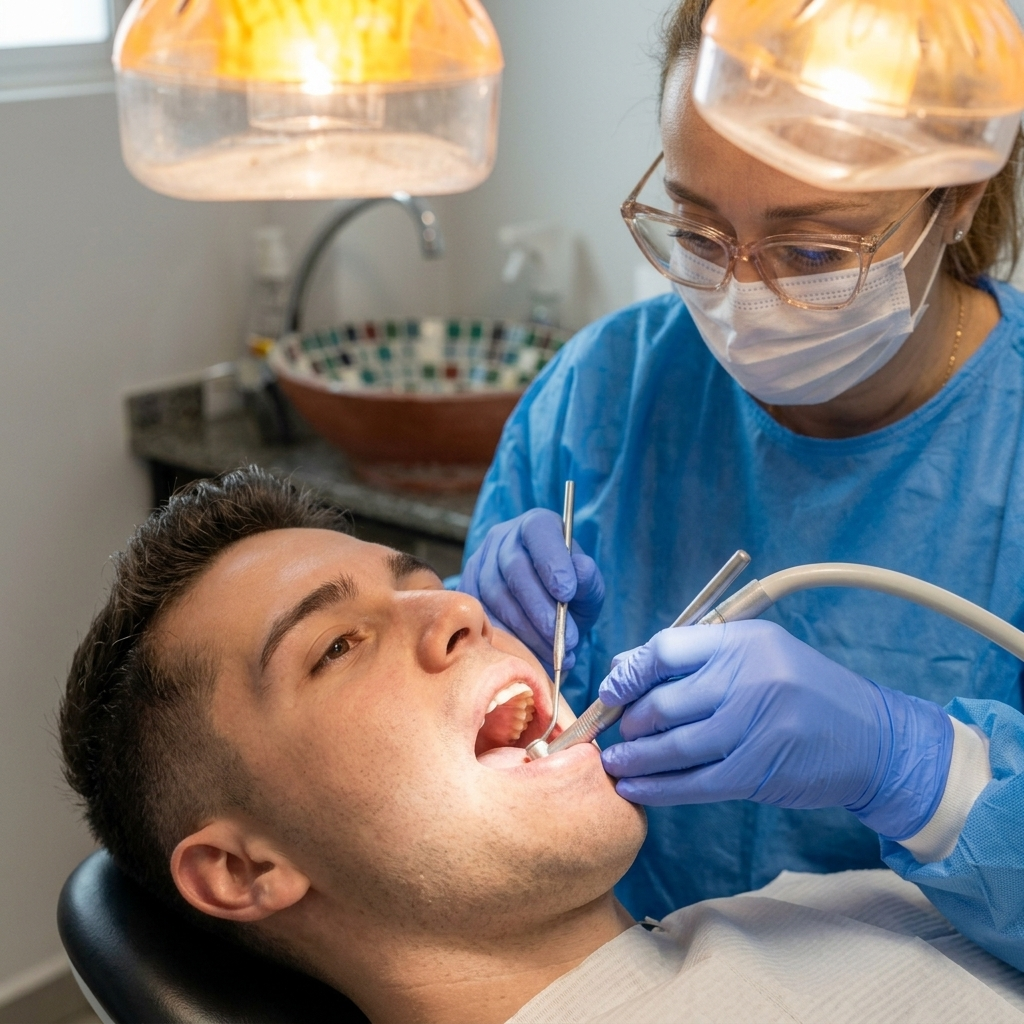
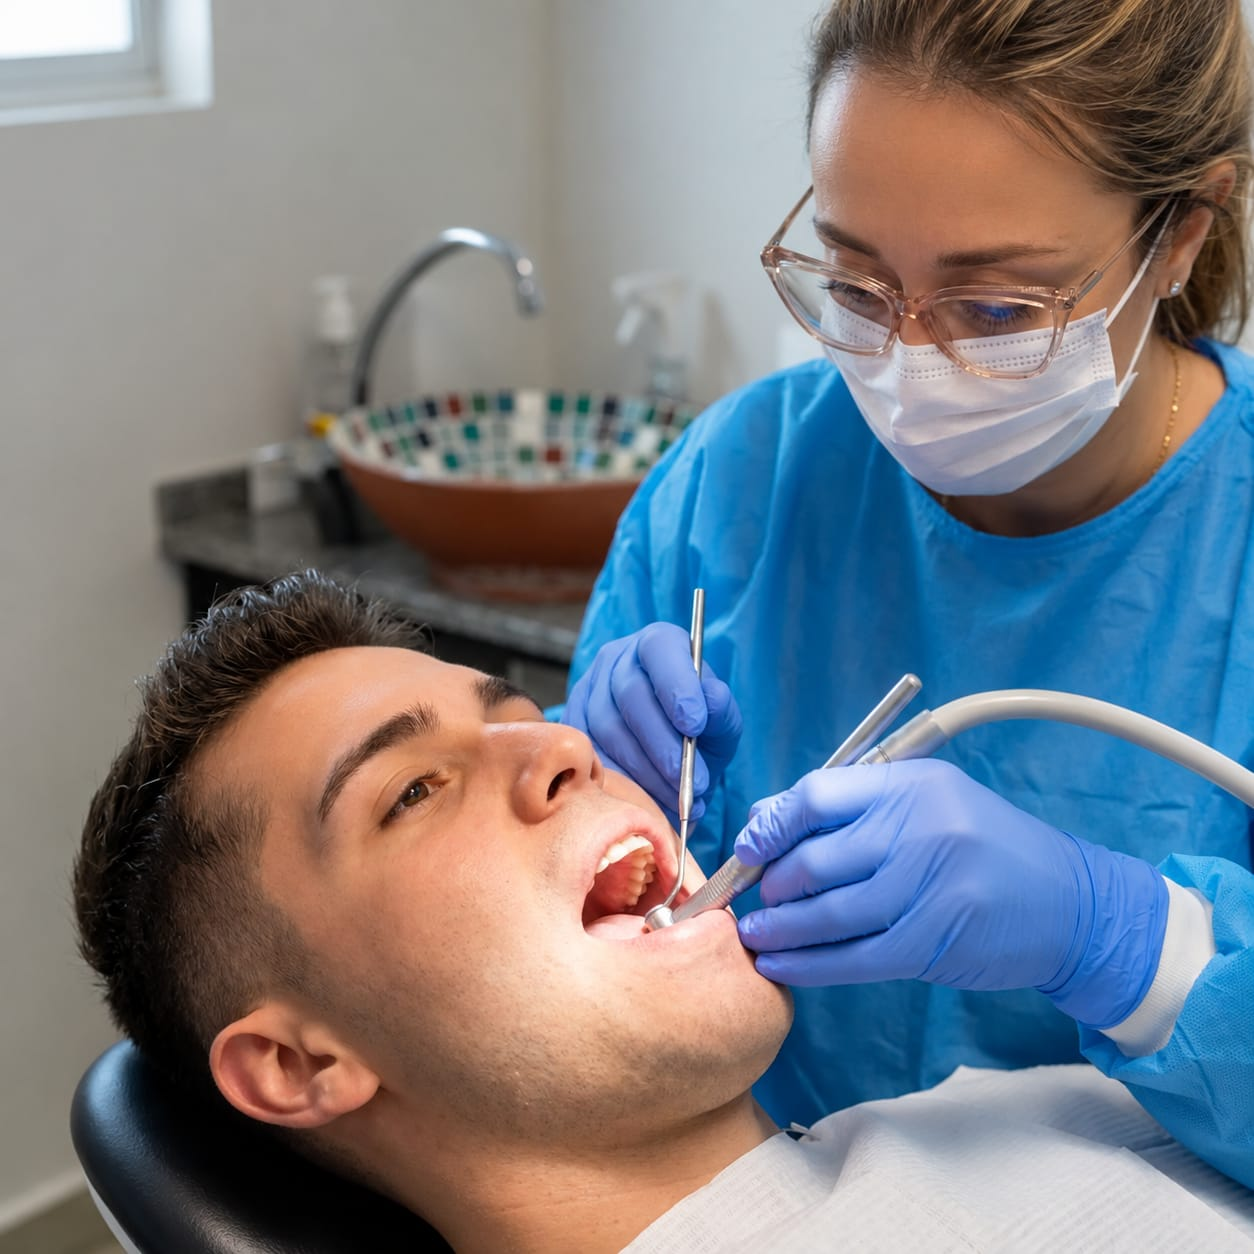
Reemplaza hero y fotos de cardiología y odontopediatría con imágenes reales del consultorio

diff --git a/index.html b/index.html
@@ -899,7 +899,7 @@ a.card:hover { box-shadow: 0 6px 24px rgba(0, 0, 0, 0.13); }
 
       <a class="card anim" style="--ad:80ms" href="/servicios.html#odontopediatria">
         <img class="card-photo"
-             src="https://images.pexels.com/photos/8224633/pexels-photo-8224633.jpeg?auto=compress&w=800&q=90"
+             src="img/odontopediatria.webp"
              alt="Odontopediatría" loading="lazy">
         <div class="card-body">
           <h4>Odontopediatría y ATM</h4>
@@ -909,7 +909,7 @@ a.card:hover { box-shadow: 0 6px 24px rgba(0, 0, 0, 0.13); }
 
       <a class="card anim" style="--ad:160ms" href="/servicios.html#cardiologia">
         <img class="card-photo"
-             src="https://images.pexels.com/photos/6129441/pexels-photo-6129441.jpeg?auto=compress&w=800&q=90"
+             src="img/cardiologa.webp"
              alt="Cardiología" loading="lazy">
         <div class="card-body">
           <h4>Cardiología</h4>
